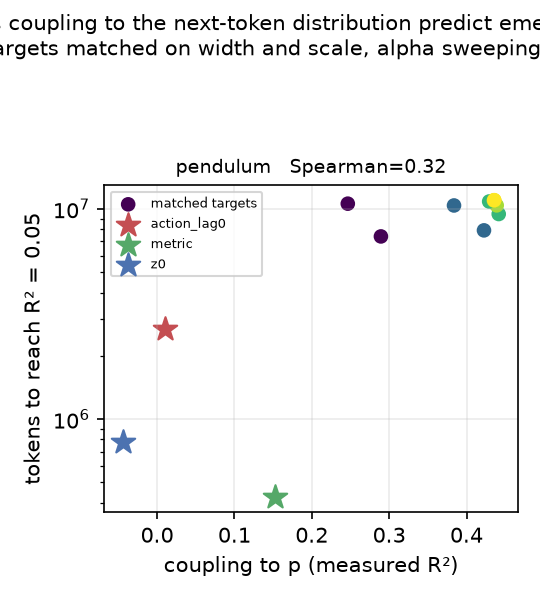
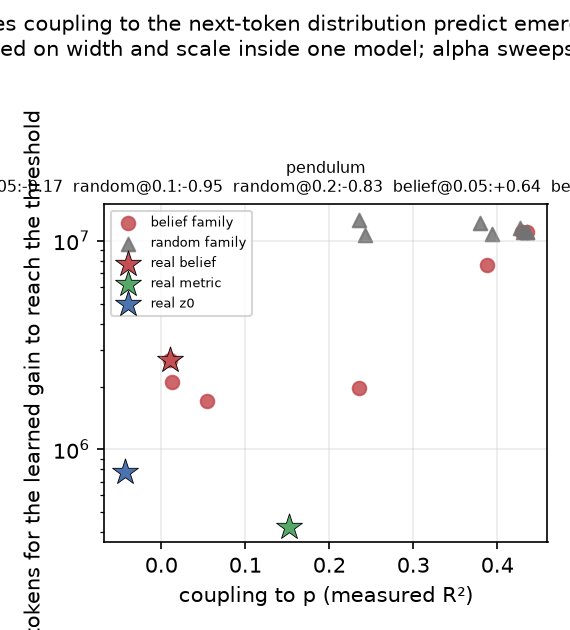
feat: belief-anchored E5 family, R6 rank ladder, merge helper
E5 previously used one family of matched targets, interpolating between a random
functional of the belief and the emission table. Every member of that family is
an arbitrary quantity the model has no reason to build, so it could not speak to
the ordering of the real targets. A second family now interpolates between the
actual action_lag0 marginal and the same emission table, so it passes through
the project's headline target. The two families give opposite-signed
correlations, which is the finding.

R6 gains a rank ladder: how far the erasure rank must go before an MLP also
fails. If it never does at usable rank, no rank-limited linear erasure can
isolate the feature, which is a stronger statement than any single ablation null.

scripts/merge_results.py reassembles JSONs from interrupted or partial reruns.

diff --git a/experiments/12_emergence.py b/experiments/12_emergence.py
@@ -53,7 +53,6 @@ from physics.branch_configs import BRANCH_CONFIGS, make_branch_process, scaled_k
 from physics.myopic import predictive_stack
 
 N_EVAL = int(os.environ.get("N_EVAL", 384))
-WIDTH = 3
 ALPHAS = (0.0, 0.1, 0.25, 0.5, 0.75, 0.9, 1.0)
 N_SEEDS = 2
 # Thresholds on the *learned gain* R^2(t) - R^2(untrained), not on R^2 itself.
@@ -74,49 +73,72 @@ def _checkpoints(name: str):
     return checkpoint_paths(OUTPUT_DIR / "checkpoints", name, TAG)
 
 
-def matched_targets(process, rng) -> tuple[np.ndarray, list[dict]]:
-    """`(n_targets * WIDTH, ...)` tables per segment, and their labels.
+def matched_targets(process, rng) -> tuple[list, list[dict]]:
+    """Per-segment tables for a family of exact linear functionals of the belief,
+    matched on width and scale, sweeping only their coupling to `p`.
 
-    The random half is drawn once on the *full* branch space and marginalised
-    down to each level by averaging over completions, so a given target is the
-    same functional at every position rather than a new random one each segment.
+    Two families, because one of them alone would not settle the question.
+
+    `family="random"` interpolates between a random functional of the belief and
+    the emission table, so it spans coupling but every member is an arbitrary
+    quantity the model has no particular reason to build.
+
+    `family="belief"` interpolates between the **actual `action_lag0` marginal**
+    and the same emission table. Its alpha = 0 end is the project's headline
+    target and its alpha = 1 end is the next-token distribution, so this family
+    passes through the place the real targets live. It is the one that can
+    speak to the phase-4 ordering.
+
+    The random functional is drawn once on the full branch space and marginalised
+    to each level by averaging over completions, so a target is the same
+    functional at every position rather than a new random one per segment.
     """
+    width = process.n_actions
     n_full = process.n_branches(process.M)
-    bins = rng.choice(process.n_obs, WIDTH, replace=False)
+    bins = rng.choice(process.n_obs, width, replace=False)
     specs, tables = [], []
 
-    for seed in range(N_SEEDS):
-        gen = np.random.default_rng(1000 + seed)
-        full = gen.normal(size=(n_full, WIDTH))
-        full = (full - full.mean(0)) / full.std(0)
-        for alpha in ALPHAS:
-            specs.append({"alpha": alpha, "seed": seed, "bins": bins.tolist()})
-            per_segment = []
-            for m in range(process.M):
-                level = m + 1
-                n_level = process.n_branches(level)
-                # average the full-branch functional over its completions
-                rand = full.reshape(n_level, -1, WIDTH).mean(axis=1)
-                emis = process.emissions[m][:, :, bins]  # (n_level, steps, WIDTH)
-                # emission is already scaled like a probability; standardise it so
-                # alpha mixes two comparable quantities rather than two scales.
-                e = (emis - emis.mean(axis=(0, 1))) / (emis.std(axis=(0, 1)) + 1e-9)
-                per_segment.append(alpha * e + (1 - alpha) * rand[:, None, :])
-            tables.append(per_segment)
+    gens = {
+        seed: (lambda g: (g - g.mean(0)) / g.std(0))(
+            np.random.default_rng(1000 + seed).normal(size=(n_full, width))
+        )
+        for seed in range(N_SEEDS)
+    }
+
+    for family in ("random", "belief"):
+        for seed in range(N_SEEDS if family == "random" else 1):
+            for alpha in ALPHAS:
+                specs.append({"alpha": alpha, "seed": seed, "family": family, "bins": bins.tolist()})
+                per_segment = []
+                for m in range(process.M):
+                    n_level = process.n_branches(m + 1)
+                    if family == "random":
+                        base = gens[seed].reshape(n_level, -1, width).mean(axis=1)
+                    else:
+                        # E_b[onehot(last action)] IS the action_lag0 marginal,
+                        # because the flat branch index is the action word.
+                        base = np.eye(width)[np.arange(n_level) % width]
+                    emis = process.emissions[m][:, :, bins]  # (n_level, steps, width)
+                    # Standardise both sides so alpha mixes comparable quantities
+                    # rather than two different scales.
+                    e = (emis - emis.mean(axis=(0, 1))) / (emis.std(axis=(0, 1)) + 1e-9)
+                    b = (base - base.mean(0)) / (base.std(0) + 1e-9)
+                    per_segment.append(alpha * e + (1 - alpha) * b[:, None, :])
+                tables.append(per_segment)
     return tables, specs
 
 
 def target_values(process, tokens, tables, chunk=64) -> np.ndarray:
-    """`E_b[f]` for every target at every position: `(n, L, n_targets * WIDTH)`."""
-    n_t = len(tables)
-    out = np.empty((tokens.shape[0], process.seq_len, n_t * WIDTH), dtype=np.float64)
+    """`E_b[f]` for every target at every position: `(n, L, n_targets * width)`."""
+    n_t, width = len(tables), process.n_actions
+    out = np.empty((tokens.shape[0], process.seq_len, n_t * width), dtype=np.float64)
     for start in range(0, tokens.shape[0], chunk):
         block = tokens[start : start + chunk]
         nb = block.shape[0]
         for pos, belief in enumerate(process.iter_beliefs(block)):
             m, s = divmod(pos, process.steps_per_segment)
             for j, per_segment in enumerate(tables):
-                out[start : start + nb, pos, j * WIDTH : (j + 1) * WIDTH] = (
+                out[start : start + nb, pos, j * width : (j + 1) * width] = (
                     belief @ per_segment[m][:, s]
                 )
     return out
@@ -143,7 +165,8 @@ def _crossing(tokens_axis, series, threshold):
 def main() -> None:
     device = pick_device()
     training = json.loads((OUTPUT_DIR / f"phase2_branch_training{TAG}.json").read_text())
-    print(f"device={device} systems={SYSTEMS} n_eval={N_EVAL} width={WIDTH}", flush=True)
+    print(f"device={device} systems={SYSTEMS} n_eval={N_EVAL} "
+          f"(width = n_actions per system)", flush=True)
     results = {}
 
     for name in SYSTEMS:
@@ -159,13 +182,14 @@ def main() -> None:
 
         tables, specs = matched_targets(process, rng)
         values = target_values(process, episodes.tokens, tables)
-        groups = {f"t{j}": slice(j * WIDTH, (j + 1) * WIDTH) for j in range(len(specs))}
+        width = process.n_actions
+        groups = {f"t{j}": slice(j * width, (j + 1) * width) for j in range(len(specs))}
 
         # The real belief and metric blocks, on the same axis for reference.
         real = forward_features(process, episodes.tokens).astype(np.float64)
         real_groups = feature_groups(process)
         values = np.concatenate([values, real], axis=-1)
-        off = len(specs) * WIDTH
+        off = len(specs) * width
         for g, c in real_groups.items():
             groups[f"real_{g}"] = slice(off + c.start, off + c.stop)
 
@@ -225,6 +249,21 @@ def main() -> None:
         # emergence? Spearman on log-tokens, so a single slow target cannot
         # dominate the fit.
         report = {}
+        for family in ("random", "belief"):
+            for t in THRESHOLDS:
+                pts = [(r["coupling_to_p"], r["crossings"][str(t)])
+                       for r in rows
+                       if r.get("family") == family
+                       and r["learned_gain"] > MIN_LEARNED_GAIN
+                       and r["crossings"][str(t)] is not None]
+                key = f"{family}@{t}"
+                if len(pts) >= 4:
+                    x = np.array([a for a, _ in pts])
+                    y = np.log10(np.maximum([b for _, b in pts], 1.0))
+                    rho = float(np.corrcoef(x.argsort().argsort(), y.argsort().argsort())[0, 1])
+                else:
+                    rho = None
+                report[key] = {"n": len(pts), "spearman_coupling_vs_log_tokens": rho}
         for t in THRESHOLDS:
             # A target that never gets learned has no emergence time, and
             # including it as a censored point would let the threshold choice
@@ -253,12 +292,14 @@ def main() -> None:
 
         for r in sorted(rows, key=lambda r: -r["coupling_to_p"]):
             c = r["crossings"][str(THRESHOLDS[0])]
-            print(f"  {r['target']:<18} alpha={str(r['alpha']):>5}  coupling={r['coupling_to_p']:+.3f}  "
+            print(f"  {r['target']:<8}{str(r.get('family','-')):<10} alpha={str(r['alpha']):>5}  coupling={r['coupling_to_p']:+.3f}  "
                   f"final={r['final_r2']:+.3f}  untr={r['untrained_r2']:+.3f}  "
                   f"gain={r['learned_gain']:+.3f}  "
                   f"cross@{THRESHOLDS[0]}={'never' if c is None else f'{c:,.0f}'}", flush=True)
-        print(f"  Spearman(coupling, log tokens to reach threshold): "
-              + "  ".join(f"{t}:{v['spearman_coupling_vs_log_tokens']}" for t, v in report.items()), flush=True)
+        print("  Spearman(coupling, log tokens to reach threshold):", flush=True)
+        for k, v in report.items():
+            if v["spearman_coupling_vs_log_tokens"] is not None:
+                print(f"    {k:<16} rho={v['spearman_coupling_vs_log_tokens']:+.2f}  n={v['n']}", flush=True)
 
         results[name] = {
             "tokens_axis": axis, "targets": rows, "spearman": report,

diff --git a/scripts/make_phase5_figures.py b/scripts/make_phase5_figures.py
@@ -305,34 +305,46 @@ def fig_kick_sweep(sweep) -> Path:
 
 
 def fig_emergence(emergence) -> Path:
-    """E5: emergence time against measured coupling, within one model."""
+    """E5: emergence time against measured coupling, within one model.
+
+    Two families. The `belief` family is anchored at the project's own headline
+    target, so it passes through the place the real quantities live; the `random`
+    family does not. They disagree in sign, which is the result.
+    """
     systems = list(emergence)
-    fig, axes = plt.subplots(1, len(systems), figsize=(3.6 * len(systems), 4.0), squeeze=False)
+    fig, axes = plt.subplots(1, len(systems), figsize=(3.8 * len(systems), 4.2), squeeze=False)
     fig.suptitle("E5: does coupling to the next-token distribution predict emergence?\n"
-                 "One model, targets matched on width and scale, alpha sweeping the coupling.",
+                 "Targets matched on width and scale inside one model; alpha sweeps the coupling.",
                  fontsize=10)
+    style = {"belief": ("o", COLOUR["action_lag0"]), "random": ("^", "0.45")}
     for ax, name in zip(axes[0], systems):
         rows = emergence[name]["targets"]
-        thr = sorted(rows[0]["crossings"])[0]
-        synth = [r for r in rows if r.get("alpha") is not None]
-        real = [r for r in rows if r.get("alpha") is None]
-        xs = [r["coupling_to_p"] for r in synth]
-        ys = [r["crossings"][thr] for r in synth]
-        ok = [(x, y) for x, y in zip(xs, ys) if y is not None]
-        if ok:
-            ax.scatter(*zip(*ok), c=[r["alpha"] for r, y in zip(synth, ys) if y is not None],
-                       cmap="viridis", s=36, label="matched targets")
-        for r in real:
-            y = r["crossings"][thr]
-            if y is not None:
-                ax.scatter([r["coupling_to_p"]], [y], marker="*", s=140,
-                           color=COLOUR.get(r["target"].replace("real_", ""), "k"),
-                           label=r["target"].replace("real_", ""))
-        rho = emergence[name]["spearman"].get(thr, {}).get("spearman_coupling_vs_log_tokens")
+        thr = sorted(r for r in rows[0]["crossings"])[0]
+        for family, (marker, colour) in style.items():
+            pts = [(r["coupling_to_p"], r["crossings"][thr])
+                   for r in rows
+                   if r.get("family") == family and r.get("learned_gain", 1) > 0.1
+                   and r["crossings"][thr] is not None]
+            if pts:
+                ax.scatter(*zip(*pts), marker=marker, s=42, color=colour, alpha=0.85,
+                           label=f"{family} family")
+        for r in rows:
+            if r.get("alpha") is None and r["crossings"][thr] is not None:
+                label = r["target"].replace("real_", "")
+                ax.scatter([r["coupling_to_p"]], [r["crossings"][thr]], marker="*", s=170,
+                           color=COLOUR.get(label.replace("action_lag0", "action_lag0"), "k"),
+                           edgecolor="k", linewidth=0.4,
+                           label=f"real {label.replace('action_lag0', 'belief')}")
+        sp = emergence[name]["spearman"]
+        note = "  ".join(
+            f"{k}:{v['spearman_coupling_vs_log_tokens']:+.2f}"
+            for k, v in sp.items()
+            if "@" in k and v["spearman_coupling_vs_log_tokens"] is not None
+        )
         ax.set_yscale("log"); ax.set_xlabel("coupling to p (measured R²)")
-        ax.set_title(f"{name}   Spearman={rho if rho is None else round(rho, 2)}", fontsize=9)
+        ax.set_title(f"{name}\nSpearman {note}", fontsize=7.5)
         ax.grid(alpha=0.25); ax.legend(fontsize=6)
-    axes[0][0].set_ylabel(f"tokens to reach R² = {sorted(emergence[list(emergence)[0]]['targets'][0]['crossings'])[0]}")
+    axes[0][0].set_ylabel("tokens for the learned gain to reach the threshold")
     fig.tight_layout(rect=(0, 0, 1, 0.90))
     out = FIGDIR / "emergence_coupling.png"
     fig.savefig(out, dpi=150); plt.close(fig)

diff --git a/experiments/09_probe_semantics.py b/experiments/09_probe_semantics.py
@@ -48,7 +48,7 @@ import time
 import numpy as np
 import torch
 
-from models.ablation import erasure_basis
+from models.ablation import erasure_basis, variance_fraction
 from models.analysis import _sequence_split, residual_streams_batched
 from models.bootstrap import bootstrap_r2, r2_columns
 from models.probe import fit_probe
@@ -220,13 +220,38 @@ def main() -> None:
                 )
                 mu = act.reshape(-1, act.shape[-1]).mean(0)
                 strip = lambda x: x - ((x - mu) @ basis) @ basis.T
+                mlp_before = mlp_probe(a_tr, b_tr, a_te, b_te, epochs=MLP_EPOCHS, device=device)["r2"]
                 record["r6_nonlinear_after_erasure"] = {
                     "depth": best["name"], "rank": int(basis.shape[1]),
                     "linear_before": intact, "linear_after": history[-1],
-                    "mlp_before": mlp_probe(a_tr, b_tr, a_te, b_te, epochs=MLP_EPOCHS, device=device)["r2"],
+                    "mlp_before": mlp_before,
                     "mlp_after": mlp_probe(strip(a_tr), b_tr, strip(a_te), b_te,
                                            epochs=MLP_EPOCHS, device=device)["r2"],
                 }
+
+                # How far the rank has to go before the feature is actually gone,
+                # rather than merely unreadable by a line. If the MLP holds up to
+                # a rank where the random control is already destroying the model,
+                # then no rank-limited linear erasure can isolate this feature and
+                # the whole ablation methodology is inapplicable to it -- which is
+                # a stronger statement than any individual ablation null.
+                ladder = []
+                for r in [x for x in (2, 4, 8, 16, 32, 48, 64, 96, 128) if x <= basis.shape[1]]:
+                    sub = basis[:, :r]
+                    cut = lambda x: x - ((x - mu) @ sub) @ sub.T
+                    ladder.append(
+                        {
+                            "rank": r,
+                            "linear": r2_columns(fit_probe(cut(a_tr), b_tr)(cut(a_te)), b_te),
+                            "mlp": mlp_probe(cut(a_tr), b_tr, cut(a_te), b_te,
+                                             epochs=MLP_EPOCHS, device=device)["r2"],
+                            "variance_fraction": variance_fraction(sub, act.reshape(-1, act.shape[-1])),
+                        }
+                    )
+                record["r6_rank_ladder"] = ladder
+                print("  R6 rank ladder (linear / MLP): "
+                      + "  ".join(f"r{c['rank']}:{c['linear']:.2f}/{c['mlp']:.2f}" for c in ladder),
+                      flush=True)
                 r6 = record["r6_nonlinear_after_erasure"]
                 print(f"  R6 erasure @{r6['depth']} rank {r6['rank']}: linear "
                       f"{r6['linear_before']:.3f}->{r6['linear_after']:.3f}   "

diff --git a/scripts/merge_results.py b/scripts/merge_results.py
@@ -1,0 +1,70 @@
+"""Merge phase-5 JSONs that were produced by separate partial runs.
+
+Two situations produce them. A long run can be interrupted and restarted for the
+systems it did not reach, and a follow-up can deliberately rerun one depth with
+an extra measurement added. Both write the same filename, so the pieces are
+merged here rather than by hand.
+
+Merging is per system and, where both sides carry `by_depth`, per depth: a later
+file wins on any key it defines, and depths only the earlier file has are kept.
+
+Run:  uv run python scripts/merge_results.py <out.json> <older.json> <newer.json> [...]
+"""
+
+from __future__ import annotations
+
+import json
+import sys
+from pathlib import Path
+
+
+def _merge_depths(old: list, new: list) -> list:
+    by_name = {d.get("name", d.get("depth")): dict(d) for d in old}
+    for d in new:
+        key = d.get("name", d.get("depth"))
+        by_name[key] = {**by_name.get(key, {}), **d}
+    return sorted(by_name.values(), key=lambda d: d.get("depth", 0))
+
+
+def merge(parts: list[dict]) -> dict:
+    out: dict = {}
+    for part in parts:
+        for system, value in part.items():
+            if system not in out:
+                out[system] = value
+                continue
+            merged = {**out[system], **value}
+            if "by_depth" in out[system] and "by_depth" in value:
+                merged["by_depth"] = _merge_depths(out[system]["by_depth"], value["by_depth"])
+            out[system] = merged
+    return out
+
+
+def main() -> None:
+    if len(sys.argv) < 4:
+        raise SystemExit(__doc__)
+    target, sources = Path(sys.argv[1]), [Path(p) for p in sys.argv[2:]]
+    parts = [json.loads(p.read_text()) for p in sources]
+    result = merge(parts)
+    target.write_text(json.dumps(result, indent=2, default=float))
+    for p, part in zip(sources, parts):
+        print(f"  {p.name}: {sorted(part)}")
+    print(f"-> {target}: {sorted(result)}")
+    for system, value in result.items():
+        if isinstance(value, dict) and "by_depth" in value:
+            print(f"   {system}: depths {[d.get('name') for d in value['by_depth']]}")
+
+
+def _demo() -> None:
+    a = {"x": {"by_depth": [{"depth": 0, "name": "e", "p": 1}, {"depth": 1, "name": "L0", "p": 2}]}}
+    b = {"x": {"by_depth": [{"depth": 1, "name": "L0", "q": 9}]}, "y": {"k": 1}}
+    m = merge([a, b])
+    assert sorted(m) == ["x", "y"]
+    depths = {d["name"]: d for d in m["x"]["by_depth"]}
+    assert depths["e"]["p"] == 1, "a depth only the older file has must survive"
+    assert depths["L0"] == {"depth": 1, "name": "L0", "p": 2, "q": 9}, "keys must union, newer winning"
+    print("merge ok")
+
+
+if __name__ == "__main__":
+    _demo() if "--self-check" in sys.argv else main()

diff --git a/docs/PHASE5-RESULTS.md b/docs/PHASE5-RESULTS.md
@@ -309,11 +309,26 @@ Erasing only the part of each basis orthogonal to the other, at matched rank:
 | double_pendulum | resid_post_0 | 29 | +0.1027 | +0.0950 | +0.0571 ± 0.0067 |
 | double_pendulum | resid_post_2 | 16 | +0.0314 | +0.0527 | +0.0129 ± 0.0022 |
 
-The belief-specific directions are load-bearing above the matched random control
-in 13 of 14 cells, and the effect is largest at `resid_post_0`, which C12
-identifies as where the belief is being built. The full erasure basis is not
-load-bearing because it is dominated by redundant low-variance directions that
-the loss does not depend on; the unique 20 of its 60 directions are.
+Across the 14 (system, depth) cells, the belief-specific complement exceeds the
+matched random control by more than 2 sd in **10**, sits between 0 and 2 sd in 2,
+and falls below it in 2. The metric-specific complement exceeds by more than 2 sd
+in 12. The four belief cells that do not clear 2 sd are:
+
+```
+pendulum       resid_post_2   +0.0075 vs random +0.0147 +- 0.0046   z = -1.6
+predator_prey  resid_post_1   +0.0587 vs random +0.0386 +- 0.0152   z = +1.3
+predator_prey  resid_post_2   +0.0453 vs random +0.0449 +- 0.0143   z =  0.0
+sphere         resid_post_2   +0.0098 vs random +0.0146 +- 0.0021   z = -2.3
+```
+
+Three of the four are at `resid_post_2`, and the effect is largest at
+`resid_post_0`, which C12 identifies as where the belief is built. The pattern is
+consistent across the whole of phase 5: the belief-specific directions matter
+where the belief is being constructed and stop mattering downstream.
+
+The full erasure basis is not load-bearing because it is dominated by redundant
+low-variance directions the loss does not depend on; the unique 20 of its 60
+directions are.
 
 This is the contrast phase 4 should have run. It does not rescue claim 3 as
 stated -- the phase-4 numbers remain unusable -- but it replaces the null with a
